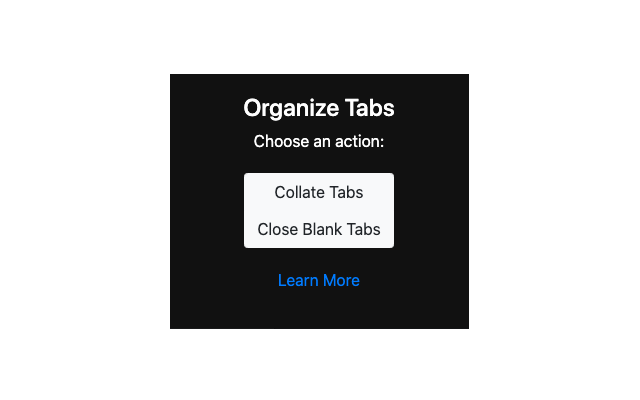
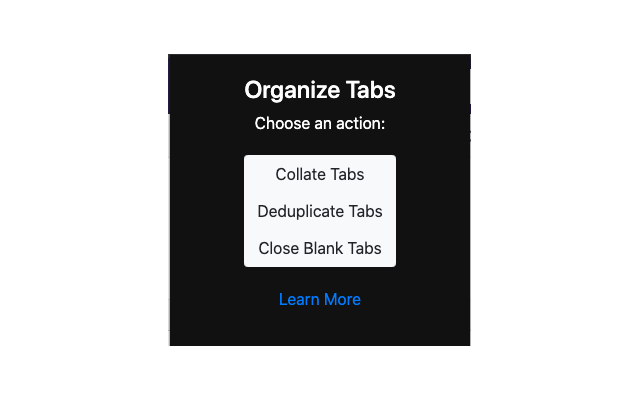
adds the ability to deduplicate tabs

Changed region(s): [[0.25, 0.12, 0.75, 0.78], [0.25, 0.81, 0.75, 0.87]]

diff --git a/src/js/popup.js b/src/js/popup.js
@@ -72,7 +72,7 @@ $(function() {
                 );
 
                 // Create a new window and move tabs over
-                moveTabsToNewWindow(orderedTabs);
+                moveTabsToNewWindow(orderedTabs, closeBlankTabs);
             }
         });
 
@@ -96,6 +96,22 @@ $(function() {
                 index: -1
             };
             chrome.tabs.move(tabIds, moveProperties, callback);
+        });
+    }
+
+
+    function deduplicateTabs() {
+        chrome.tabs.query({}, function(tabs) {
+            var VISITED_URLS = {};
+            _.forEach(tabs, function(tab) {
+                var url = tab.url;
+                if (typeof(VISITED_URLS[url]) === 'undefined') {
+                    VISITED_URLS[url] = true;
+                } else {
+                    // already visited, close the tab
+                    chrome.tabs.remove(tab.id);
+                }
+            });
         });
     }
 
@@ -146,6 +162,11 @@ $(function() {
         };
         var callback = handleCollateTabsGotWindows;
         chrome.windows.getAll(getInfo, callback);
+    }
+
+
+    function handleDeduplicateTabsClicked() {
+        deduplicateTabs();
     }
 
 
@@ -213,6 +234,7 @@ $(function() {
 
     function initEventHandlers() {
         $('.collate-tabs').click(handleCollateTabsClicked);
+        $('.deduplicate-tabs').click(handleDeduplicateTabsClicked);
         $('.close-orphans').click(handleCloseOrphansClicked);
         $('.close-blank-tabs').click(handleCloseBlankTabsClicked);
     }

diff --git a/src/popup.html b/src/popup.html
@@ -33,6 +33,7 @@
     <div style="padding: 20px 0px;">
       <div class="btn-group-vertical">
         <a class="btn btn-light collate-tabs" href="javascript:void(0);">Collate Tabs</a>
+        <a class="btn btn-light deduplicate-tabs" href="javascript:void(0);">Deduplicate Tabs</a>
         <!--<a class="btn btn-light close-orphans" href="javascript:void(0);">Close Orphans</a>-->
         <a class="btn btn-light close-blank-tabs" href="javascript:void(0);">Close Blank Tabs</a>
       </div>

diff --git a/README.md b/README.md
@@ -3,6 +3,7 @@
 This plugin enables the following operations:
 
 - **Collate Tabs** - Groups all of your tabs into separate windows, grouped by hostname, and sorted by URL. Ignores windows with pinned tabs.
+- **Deduplicate Tabs** - Enumerates through all tabs, and keeps only the first copy of a tab with a unique URL, and closes the remaining tabs with duplicate URLs. Recommend running this *after* running **Collate Tabs**.
 - **Close Blank Tabs** - Closes all blank tabs
 
 Available on the Google Chrome Webstore: [PENDING]
